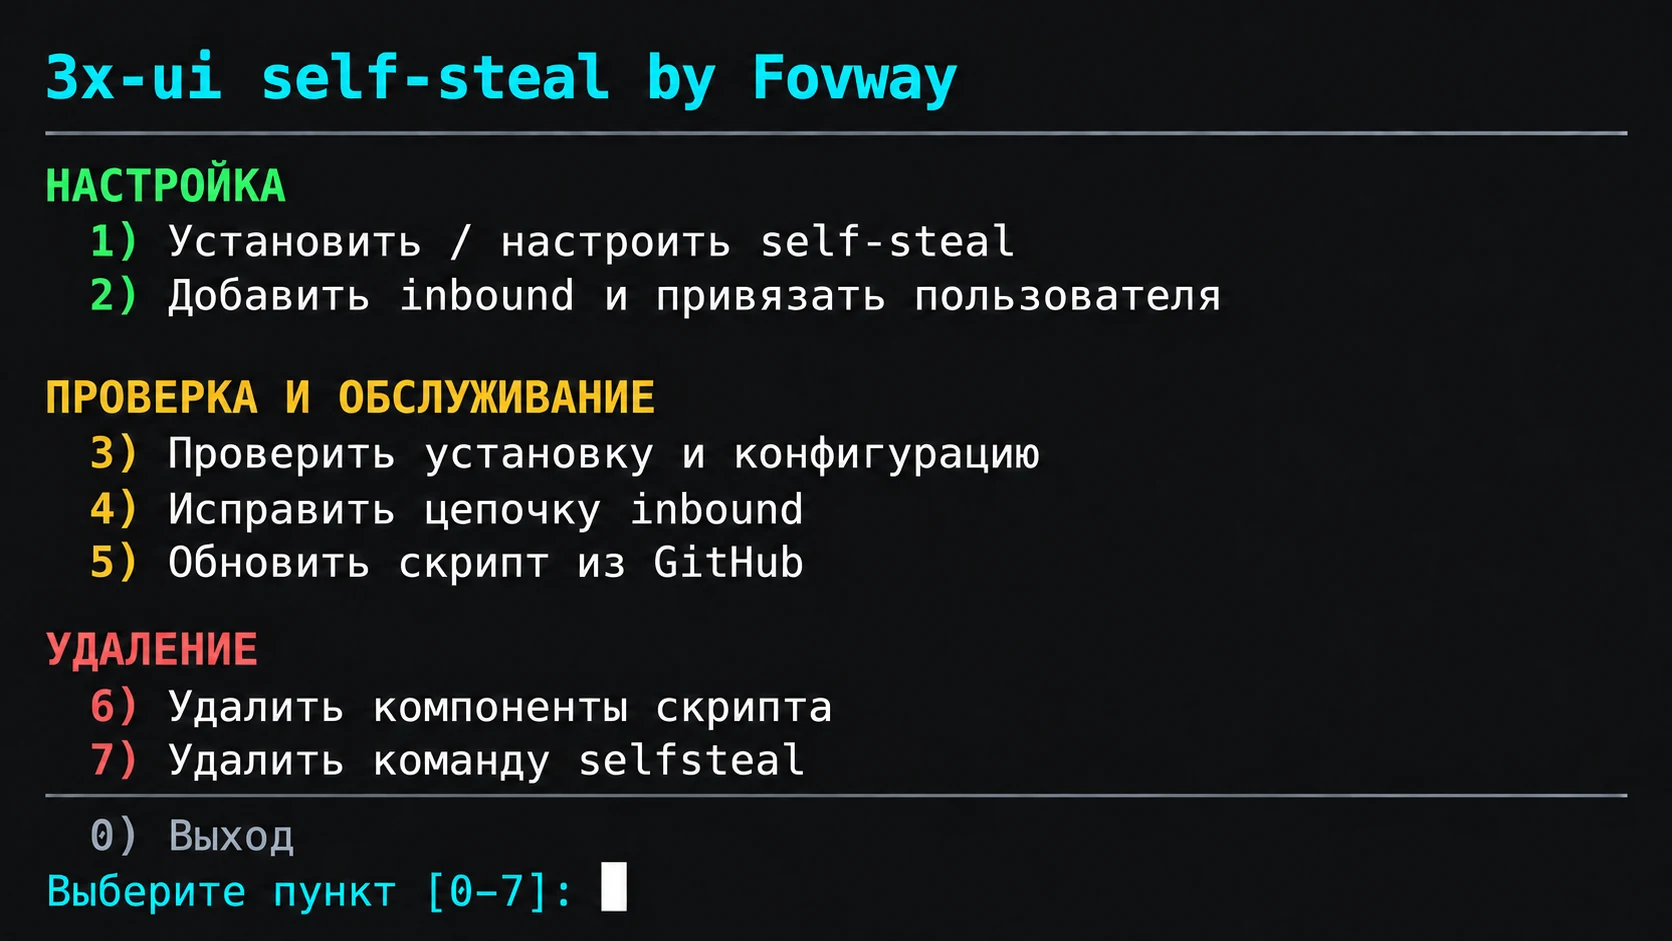
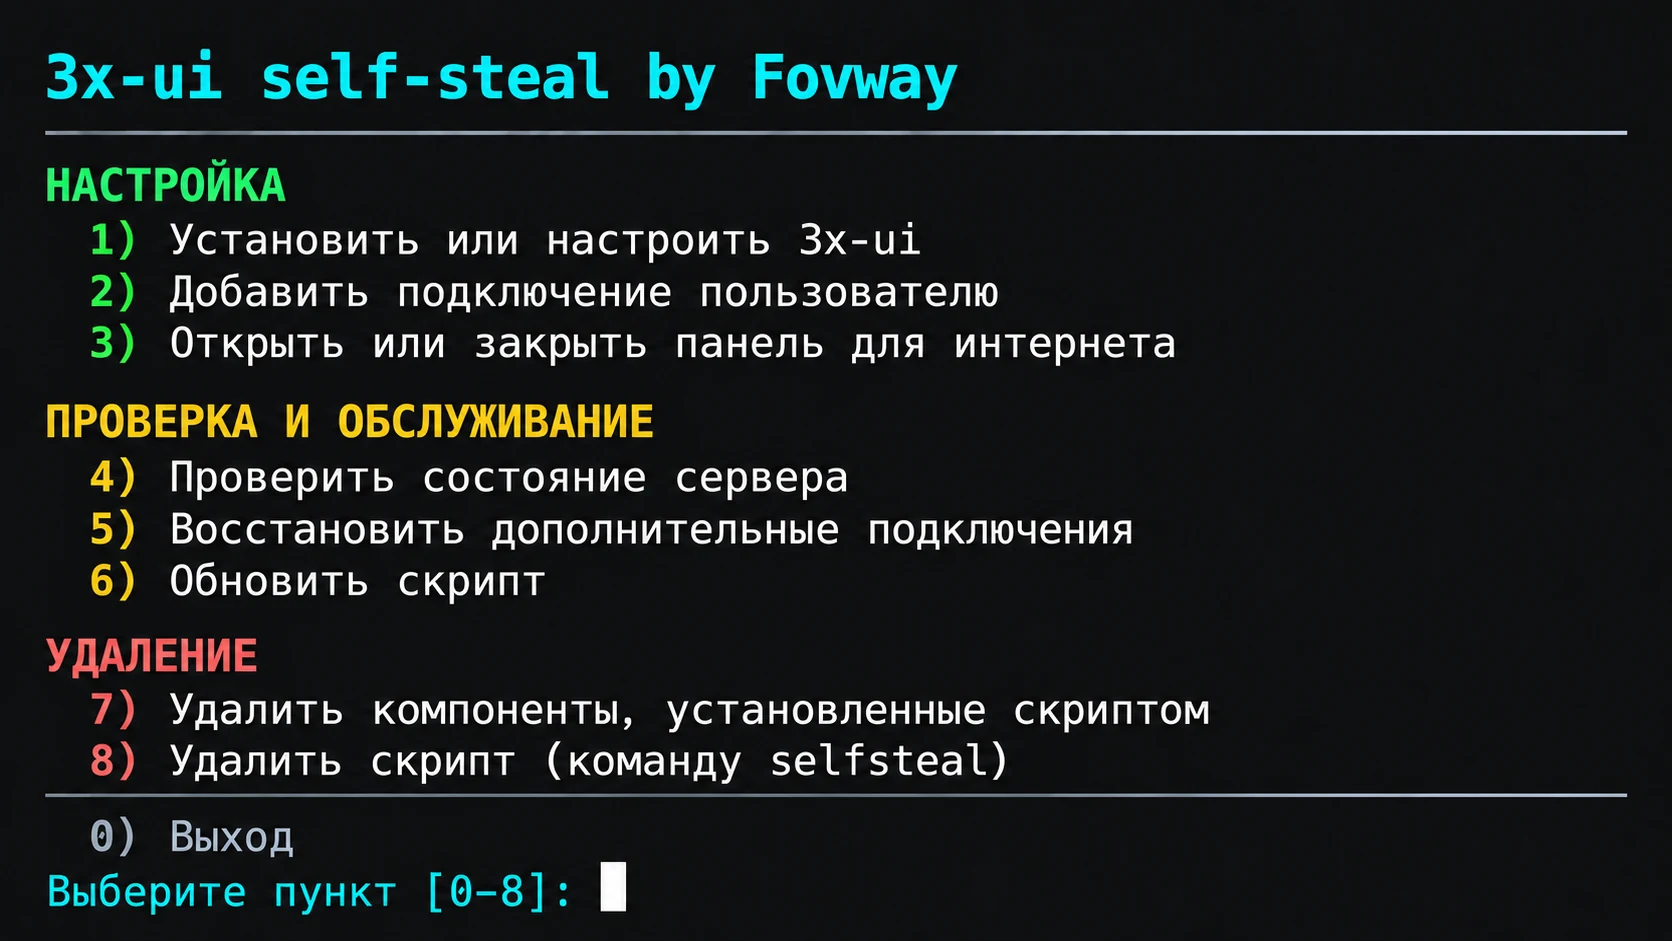
Add transactional public panel access switch and simplify Russian menu labels

diff --git a/README.md b/README.md
@@ -38,27 +38,28 @@ bash /tmp/setup-selfsteal-3xui.sh --help
 
 Если запустить скрипт без аргументов, открывается главное меню:
 
-1. **Установить / настроить self-steal**
-2. **Добавить inbound и привязать пользователя**
-3. **Проверить установку и конфигурацию**
-4. **Исправить цепочку inbound**
-5. **Обновить скрипт из GitHub**
-6. **Удалить компоненты скрипта**
-7. **Удалить команду selfsteal**
+1. **Установить или настроить 3x-ui**
+2. **Добавить подключение пользователю**
+3. **Открыть или закрыть панель для интернета**
+4. **Проверить состояние сервера**
+5. **Восстановить дополнительные подключения**
+6. **Обновить скрипт**
+7. **Удалить компоненты, установленные скриптом**
+8. **Удалить скрипт (команду selfsteal)**
 
 **0 — Выход**
 
 Меню разделено на настройку, проверку и обслуживание, удаление. Цвета включаются в терминале; `NO_COLOR=1` отключает их.
 
-Пункт 5 обновляет установленную команду из ветки `main` этого репозитория. Перед заменой проверяются принадлежность файла скрипту и синтаксис Bash. При ошибке загрузки или проверки прежняя версия остаётся. Предыдущая версия сохраняется в `/usr/local/share/selfsteal/previous.sh`. После обновления запустите `selfsteal` снова. Обновляется только скрипт: серверные настройки, пользователи и версия 3x-ui сохраняются. Без меню: `sudo selfsteal --update-script`.
+Пункт 6 обновляет установленную команду из ветки `main` этого репозитория. Перед заменой проверяются принадлежность файла скрипту и синтаксис Bash. При ошибке загрузки или проверки прежняя версия остаётся. Предыдущая версия сохраняется в `/usr/local/share/selfsteal/previous.sh`. После обновления запустите `selfsteal` снова. Обновляется только скрипт: серверные настройки, пользователи и версия 3x-ui сохраняются. Без меню: `sudo selfsteal --update-script`.
 
-Пункт 7 удаляет только `/usr/local/bin/selfsteal` после подтверждения `REMOVE`. Панель, inbound, nginx и резервные копии сохраняются. Без меню: `sudo selfsteal --uninstall-script`. Вернуть команду можно повторным скачиванием скрипта и запуском с `--install-script`.
+Пункт 8 удаляет только `/usr/local/bin/selfsteal` после подтверждения `REMOVE`. Панель, inbound, nginx и резервные копии сохраняются. Без меню: `sudo selfsteal --uninstall-script`. Вернуть команду можно повторным скачиванием скрипта и запуском с `--install-script`.
 
 Пункт 2 просит локальный TCP-порт, проверяет что он свободен и показывает список существующих пользователей с UUID для VLESS. Выберите пользователя по номеру (или `0` для отмены). Скрипт добавляет отдельный VLESS + Reality inbound, привязывает его через API к выбранному пользователю и создаёт запись в `panel/hosts`: адрес — сохранённый домен, порт — `443`. UUID, существующая подписка, лимиты, статус пользователя и прежние привязки сохраняются. Для появления нового inbound в приложении обновите подписку. Если пользователь выключен, просрочен или исчерпал лимит, новая привязка не снимает эти ограничения. При ошибке скрипт восстанавливает прежние переходы цепочки, отвязывает пользователя только от нового inbound и удаляет созданные компоненты; при незавершённом откате сохраняет сведения для проверки в панели. Для действия нужны активное сохранённое состояние установки и доступ к панели.
 
 Дополнительные inbound включаются в цепочку в порядке создания: например, `443 → 8443 → 8444 → 9443 (nginx)`. Каждый сохраняет собственные Reality-ключи и пользователей. Соединение приходит на общий внешний `443`; inbound, который не принимает Reality-параметры клиента, передаёт его следующему через `target`. Между inbound используется `xver: 0`, а последний передаёт соединение в nginx с `xver: 1` (PROXY protocol). Fingerprint в ссылках — `firefox`. Таким образом, запись hosts меняет адрес подписки, а передачу соединений обеспечивает цепочка Reality; NAT и открытие дополнительных внешних портов не требуются.
 
-Если дополнительные inbound были созданы старой версией скрипта и не подключаются, скачайте свежий скрипт и выберите **пункт 4** (или `--repair-chain`). Он строит цепочку только из сохранённых inbound этого скрипта, проверяет настройки через API и конфигурацию работающего Xray, сохраняет закрытую резервную копию и меняет fingerprint на `firefox`. Пользователи, ключи, Short ID и записи hosts сохраняются. После этого обновите подписку в приложении. При отсутствии сохранённого inbound или несовместимой настройке изменение отменяется. Повторная установка для того же домена сохраняет сведения о цепочке.
+Если дополнительные inbound были созданы старой версией скрипта и не подключаются, скачайте свежий скрипт и выберите **пункт 5** (или `--repair-chain`). Он строит цепочку только из сохранённых inbound этого скрипта, проверяет настройки через API и конфигурацию работающего Xray, сохраняет закрытую резервную копию и меняет fingerprint на `firefox`. Пользователи, ключи, Short ID и записи hosts сохраняются. После этого обновите подписку в приложении. При отсутствии сохранённого inbound или несовместимой настройке изменение отменяется. Повторная установка для того же домена сохраняет сведения о цепочке.
 
 Проверка выводит понятный статус по отдельным пунктам: версия и сервис 3x-ui, loopback-порт и basePath панели, VLESS + Reality на 443 и его target/SNI, nginx и его конфигурация, маршрут панели, WebSocket map, TLS-сертификат, certbot, UFW/fail2ban, DNS, клиентская конфигурация и результат smoke-test.
 
@@ -75,6 +76,12 @@ sudo selfsteal --check --domain vpn.example.com
 ~~~
 
 Состояние установки сохраняется в `/root/selfsteal-3xui/state.json` с правами `0600`.
+
+## Переключение доступа к панели
+
+Выберите **пункт 3** или выполните `sudo selfsteal --panel-access`, затем выберите включение или выключение. Включение публикует панель по HTTPS на сохранённом домене и секретном basePath. Выключение удаляет созданный скриптом маршрут панели; локальный URL и SSH-туннель остаются. Inbound, пользователи, сайт-заглушка и настройки firewall не меняются.
+
+После переключения проверяются конфигурация nginx и ответ работающего HTTPS-маршрута через локальный TLS listener. Состояние и `access.json` обновляются только после успешной проверки. При ошибке восстанавливаются прежние файлы и конфигурация nginx. Отдельная резервная копия переключения сохраняется в `/root/selfsteal-3xui/backups/panel-access-*`; исходная резервная копия установки сохраняется. Пользовательские прокси/include и изменённые вручную фрагменты не удаляются: при таком конфликте переключение останавливается с объяснением. Панель должна слушать loopback-адрес; если она сама слушает внешний IP, скрипт сообщает об этом и не заявляет, что доступ закрыт.
 
 ## Панель по HTTPS
 
